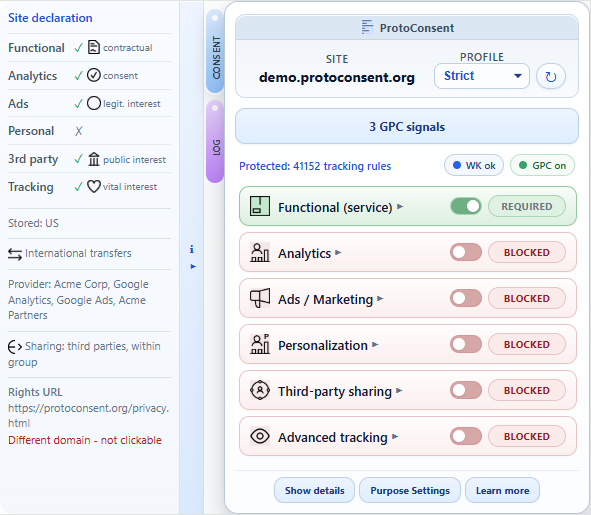
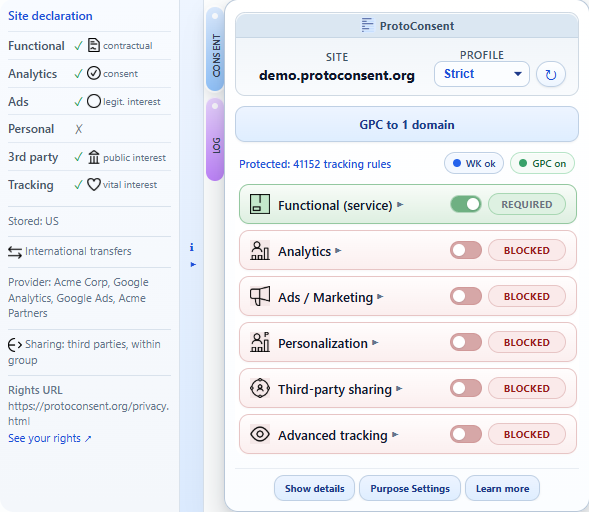
fix: manage well-known subdomains
- Well-Known: manage subdomains as root domain for Rights URL purposes.

diff --git a/extension/pages/well-known.js b/extension/pages/well-known.js
@@ -375,9 +375,13 @@ function renderSiteDeclaration(container, declaration) {
       : fullUrl;
 
     // Check if rights_url domain matches the current site (strip www.)
+    // Allow same domain or parent/subdomain relationship (same registrable domain)
     let rightsHost = "";
     try { rightsHost = new URL(fullUrl).hostname.replace(/^www\./, ""); } catch (_) {}
-    const isSameDomain = rightsHost === currentDomain;
+    const siteDomain = (currentDomain || "").replace(/^www\./, "");
+    const isSameDomain = rightsHost === siteDomain
+      || rightsHost.endsWith("." + siteDomain)
+      || siteDomain.endsWith("." + rightsHost);
 
     // Always show the full URL first so the user knows where the link goes
     const heading = document.createElement("span");
